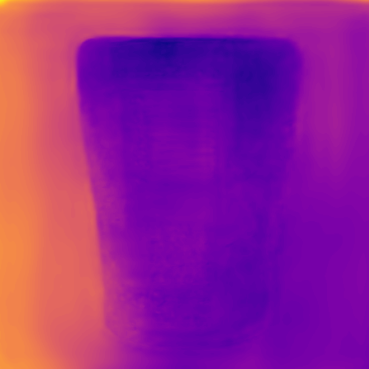
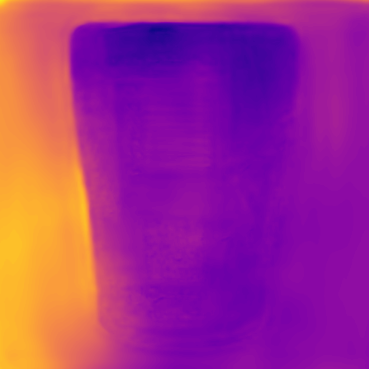
image correction corrected

diff --git a/msksoft/img/correction.py b/msksoft/img/correction.py
@@ -1,9 +1,10 @@
 import cv2
 import numpy as np
+from PIL import Image
 
 
 def compute_major_color(image_name):
-    img = cv2.imread(str(image_name)+".jpg")
+    img = cv2.imread(str(image_name) + ".jpg")
     find_vertical_factor(img)
     hsv = cv2.cvtColor(img, cv2.COLOR_BGR2HSV)
     hist = cv2.calcHist([hsv], [0, 1], None, [180, 256], [0, 180, 0, 256])
@@ -15,42 +16,50 @@ def compute_major_color(image_name):
     print("Dominant color (BGR):", dominant_color_bgr)
     return dominant_color_bgr
 
+
 def find_vertical_factor(img):
-    # Initialize variables to track the first and last non-blue pixels
-    first_nonblue = None
-    last_nonblue = None
-    # Loop over each row of pixels in the image from top to bottom
+    xlist = []
+    ylist = []
+    row = None
     for y in range(img.shape[0]):
         # Get the current row of pixels
         row = img[y, :, :]
-        print(y)
-
         # Loop over each pixel in the row from left to right
         for x in range(row.shape[0]):
-            # Get the current pixel
             pixel = row[x, :]
+            if pixel[0] < 200:
+                xlist.append(x)
+                ylist.append(y)
+    y_max = img.shape[0]
+    x_max = row.shape[0]
+    y_top = min(ylist)
+    y_bottom = y_max - max(ylist)
+    y_correct = y_bottom - y_top
+    x_left = min(xlist)
+    x_right = x_max - max(xlist)
+    x_correct = x_right - x_left
+    xtl = 0
+    ytl = 0
+    xbr = x_max
+    ybr = y_max
+    print("x_left "+str(x_left)+" x right"+str(x_right))
+    if y_correct < 0:
+        ytl = ytl - y_correct
+    else:
+        ybr = ybr - y_correct
+    if x_correct < 0:
+        xtl = xtl - x_correct
+    else:
+        xbr = xbr - x_correct
+    cropped_img = img[ytl:ybr, xtl:xbr]
+    return cropped_img
 
-            # Check if the pixel is blue
-            if np.array_equal(pixel, [255, 0, 0]):
-                continue
+def correctedPIl(image):
+    cv_image = find_vertical_factor(image)
+    # Convert the color from BGR to RGB
+    cv_image = cv2.cvtColor(cv_image, cv2.COLOR_BGR2RGB)
+    # Convert the OpenCV image to a PIL image
+    pil_image = Image.fromarray(cv_image)
+    return pil_image
 
-            # Found a non-blue pixel
-            if first_nonblue is None:
-                # This is the first non-blue pixel, mark its position
-                first_nonblue = x
-            # Always update the position of the last non-blue pixel
-            last_nonblue = x
-
-        # Check if we found any non-blue pixels in this row
-        if first_nonblue is not None:
-            # Found non-blue pixels in this row, print their positions
-            print("First non-blue pixel found at x = %d, y = %d" % (first_nonblue, y))
-            print("Last non-blue pixel found at x = %d, y = %d" % (last_nonblue, y))
-            # Exit the loop after finding the first non-blue pixels in the image
-            #break
-
-    # No non-blue pixels found
-    if first_nonblue is None:
-        print("No non-blue pixels found in the image")
-
-compute_major_color("input/1")
+#compute_major_color("../../input/1")

diff --git a/main.py b/main.py
@@ -1,13 +1,16 @@
+import cv2
 import matplotlib
 from open3d.cpu.pybind.utility import Vector3dVector
 from matplotlib import pyplot as plt
 from PIL import Image
 import torch
-from transformers import GLPNFeatureExtractor, GLPNForDepthEstimation
+from transformers import GLPNImageProcessor, GLPNForDepthEstimation
 import numpy as np
 import open3d as o3d
 from msksoft.pcd import filter, rotation as rot, translation as trans
 from msksoft.ds import json_data_store as data_store
+from msksoft.config import config_loader as cfg
+from msksoft.img import correction as crct
 
 matplotlib.use('TkAgg')
 x_max_cutoff = 0
@@ -15,8 +18,6 @@ z_cutoff = 0
 cord_diff = 0
 inc = 0
 side_count = 1
-
-
 
 
 def pcd_cutoff(i, pcd, xmin, xmax, zmin, zmax):
@@ -97,7 +98,8 @@ def create_mesh(pcd):
     mesh.rotate(rotation, center=(0, 0, 0))
     mesh.remove_unreferenced_vertices()
     mesh.remove_non_manifold_edges()
-    o3d.io.write_triangle_mesh("model3d/mesh.obj", mesh)
+    obj_path = str(cfg.get('objfile'))
+    o3d.io.write_triangle_mesh(obj_path, mesh)
     return mesh
 
 
@@ -114,13 +116,14 @@ def combine_point_clouds(pcd1, pcd2):
 
 
 #############################
-
 def createPointCloud(imageName, imageNum):
-    feature_extractor = GLPNFeatureExtractor.from_pretrained("vinvino02/glpn-nyu")
+    feature_extractor = GLPNImageProcessor.from_pretrained("vinvino02/glpn-nyu")
     model = GLPNForDepthEstimation.from_pretrained("vinvino02/glpn-nyu")
 
     # load and resize the input image
-    image = Image.open(imageName)
+    img = cv2.imread(imageName)
+    image = crct.correctedPIl(img)
+    #image = Image.open(imageName)
     new_height = 480 if image.height > 480 else image.height
     new_height -= (new_height % 32)
     new_width = int(new_height * image.width / image.height)
@@ -166,16 +169,13 @@ def createPointCloud(imageName, imageNum):
     # Set the translation component of the matrix
     global max_cord, cord_diff, side_count
     extrinsic[:3, 3] = np.array([0.0, 0.0, 0.0])
-    extrinsic[:3, :3] = np.dot(rot.rotation_matrix_y(0), rot.rotation_matrix_x(np.pi))
-    # np.array([[1.0, 0.0, 0.0], [0.0, 1.0, 0.0], [0.0, 0.0, 1.0]])
+    if side_count == 1:
+        extrinsic[:3, :3] = np.dot(rot.rotation_matrix_y(0), rot.rotation_matrix_x(np.pi))
     if side_count == 2:
-        extrinsic[:3, 3] = np.array([0.0, 0.0, 0.0])
         extrinsic[:3, :3] = np.dot(rot.rotation_matrix_y(np.pi / 2), rot.rotation_matrix_x(np.pi))
     if side_count == 3:
-        extrinsic[:3, 3] = np.array([0.0, 0.0, 0.0])
         extrinsic[:3, :3] = np.dot(rot.rotation_matrix_y(np.pi), rot.rotation_matrix_x(np.pi))
     if side_count == 4:
-        extrinsic[:3, 3] = np.array([0.0, 0.0, 0.0])
         extrinsic[:3, :3] = np.dot(rot.rotation_matrix_y(3 * np.pi / 2), rot.rotation_matrix_x(np.pi))
     # create point cloud
     pcd = o3d.geometry.PointCloud.create_from_rgbd_image(rgbd_image, camera_intrinsic, extrinsic)

diff --git a/msksoft/ds/json_data_store.py b/msksoft/ds/json_data_store.py
@@ -1,34 +1,34 @@
 import json
 from msksoft.config import config_loader as cfg
 
-path = cfg.get('datastore')
+path = str(cfg.get('datastore'))
 
 
 # Save the list to a file
 def save_list(file, value):
-    with open(str(path), 'r') as f:
+    with open(path, 'r') as f:
         saved_data = json.load(f)
     saved_data[file] = value
-    with open(str(path), 'w') as f:
+    with open(path, 'w') as f:
         json.dump(saved_data, f)
 
 
 # Load the list from the file
 def read_list(file):
-    with open(str(path), 'r') as f:
+    with open(path, 'r') as f:
         saved_data = json.load(f)
     return saved_data[file]
 
 
 # Load the list from the file
 def read_all():
-    with open(str(path), 'r') as f:
+    with open(path, 'r') as f:
         saved_data = json.load(f)
     return saved_data
 
 
 # Reset the file content
 def reset():
-    with open(str(path), 'w') as f:
+    with open(path, 'w') as f:
         clear = {}
         json.dump(clear, f)
